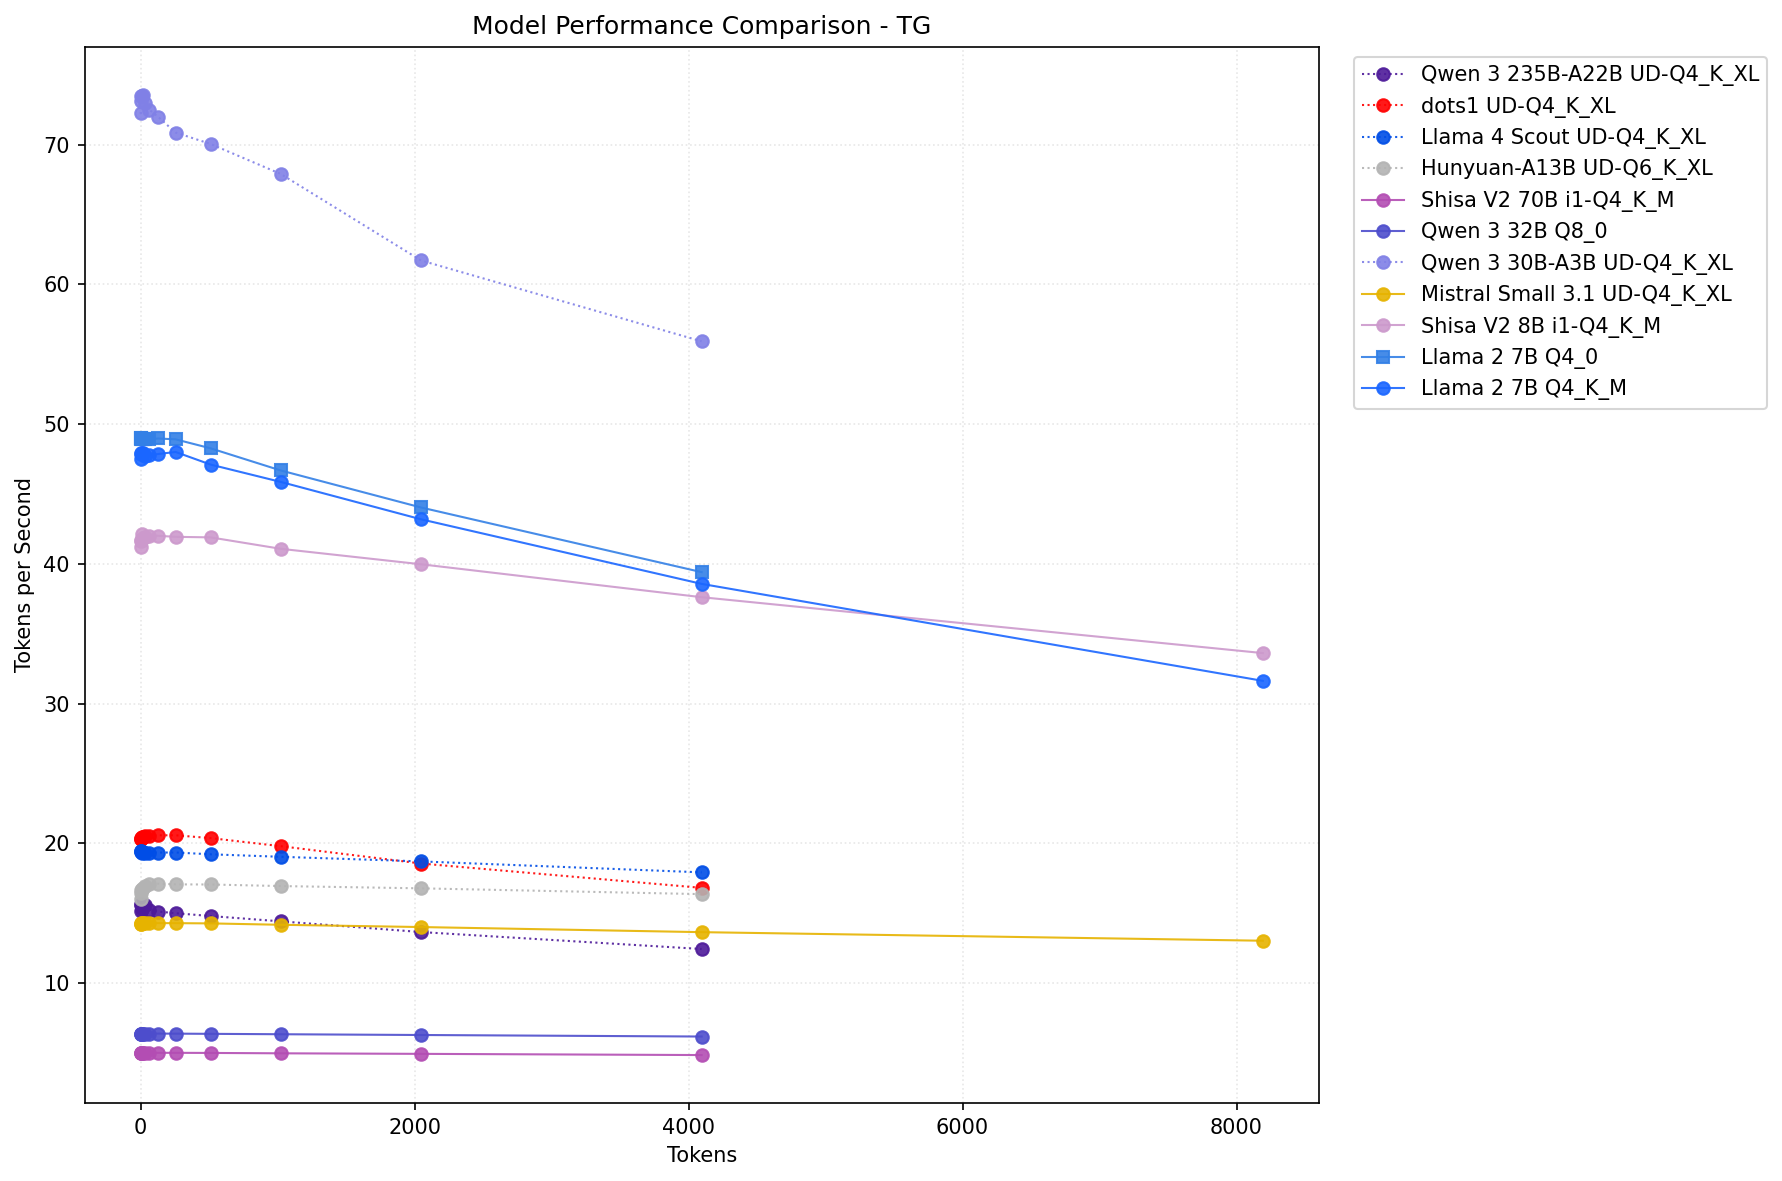
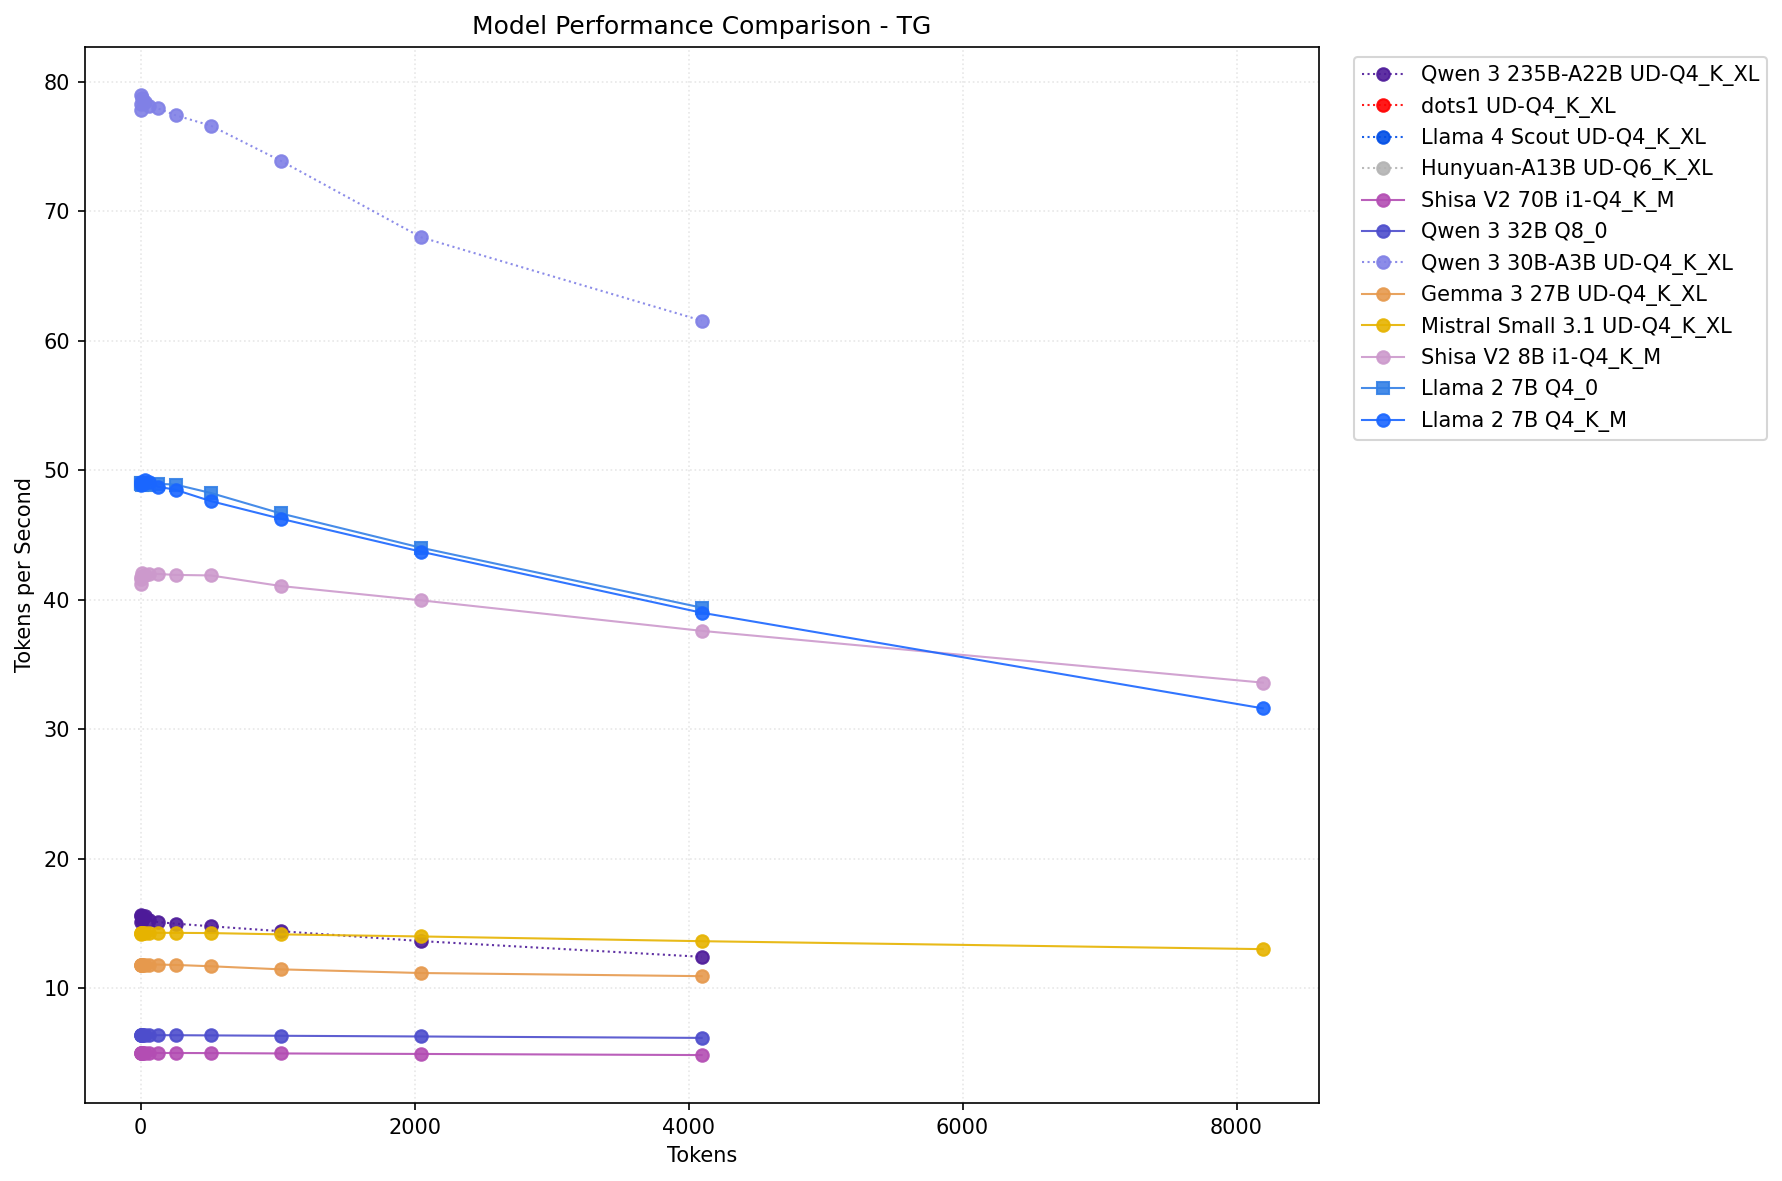
updated results

diff --git a/llm-bench/create-summary-readme.py b/llm-bench/create-summary-readme.py
@@ -67,7 +67,7 @@ MODELS = {
         "arch": "Qwen 3 MoE",
         "weights": 30,
         "active": 3,
-        "pp": "vulkan_fa",
+        "pp": "rocmwmma_hipblaslt_fa",
         "tg": "vulkan_b=256",
         "line": {
             "color": (0.5, 0.5, 0.9, 0.9),
@@ -119,7 +119,7 @@ MODELS = {
         "arch": "Llama 2",
         "weights": 7,
         "active": 7,
-        "pp": "hip_hipblaslt",
+        "pp": "rocwmma_hipblaslt_fa",
         "tg": "vulkan_fa",
         "line": {
             "color": (0.1, 0.4, 1.0, 0.9),
@@ -145,10 +145,23 @@ MODELS = {
         "arch": "Llama 3",
         "weights": 70,
         "active": 70,
-        "pp": "rocwmma",
+        "pp": "rocwmma_hipblaslt",
         "tg": "vulkan_fa",
         "line": {
             "color": (0.7, 0.3, 0.7, 0.9),
+            "lw": 1,
+            "ls": "-",
+        },
+    },
+    "gemma-3-27b-it-UD-Q4_K_XL": {
+        "name": "Gemma 3 27B UD-Q4_K_XL",
+        "arch": "Gemma 3",
+        "weights": 27,
+        "active": 27,
+        "pp": "hip_hipblaslt",
+        "tg": "vulkan_fa",
+        "line": {
+            "color": (0.9, 0.6, 0.3, 0.9),
             "lw": 1,
             "ls": "-",
         },
@@ -202,6 +215,13 @@ def get_best_performance_for_backend(df, backend_config, mode):
                (df['fa'] == '')
     elif backend_config == "rocwmma":
         mask = (df['build'].str.contains('rocwmma', na=False))
+    elif backend_config == "rocwmma_hipblaslt":
+        mask = (df['build'].str.contains('rocwmma', na=False)) & \
+               (df['hipblaslt'] == '1')
+    elif backend_config == "rocwmma_hipblaslt_fa":
+        mask = (df['build'].str.contains('rocwmma', na=False)) & \
+               (df['hipblaslt'] == '1') & \
+               (df['fa'] == '-fa 1')
     else:
         mask = df['build'].str.contains(backend_config, na=False)
     
@@ -254,6 +274,13 @@ def get_best_performance(df, model_info, mode):
                (df['fa'] == '-fa 1')
     elif best_backend == "rocwmma":
         mask = (df['build'].str.contains('rocwmma', na=False))
+    elif best_backend == "rocwmma_hipblaslt":
+        mask = (df['build'].str.contains('rocwmma', na=False)) & \
+               (df['hipblaslt'] == '1')
+    elif best_backend == "rocwmma_hipblaslt_fa":
+        mask = (df['build'].str.contains('rocwmma', na=False)) & \
+               (df['hipblaslt'] == '1') & \
+               (df['fa'] == '-fa 1')
     else:
         mask = df['build'].str.contains(best_backend, na=False)
     

diff --git a/llm-bench/README.md b/llm-bench/README.md
@@ -68,34 +68,35 @@ You can reference the `[llama-cpp-bencher.py](llama-cpp-bencher.py)` directly fo
 ### Prompt Processing (pp) Performance
 ![PP Performance](summary-results-pp.png)
 
-| Model Name                   | Architecture   |   Weights (B) |   Active (B) | Backend     | Flags      |   pp512 |   tg128 |   Memory (Max MiB) |
-|------------------------------|----------------|---------------|--------------|-------------|------------|---------|---------|--------------------|
-| Llama 2 7B Q4_0              | Llama 2        |             7 |            7 | Vulkan      |            |  1230.0 |    48.3 |               4323 |
-| Llama 2 7B Q4_K_M            | Llama 2        |             7 |            7 | HIP         | hipBLASLt  |   906.1 |    40.8 |               4720 |
-| Shisa V2 8B i1-Q4_K_M        | Llama 3        |             8 |            8 | HIP         | hipBLASLt  |   878.2 |    37.2 |               5308 |
-| Qwen 3 30B-A3B UD-Q4_K_XL    | Qwen 3 MoE     |            30 |            3 | Vulkan      | fa=1       |   604.8 |    66.3 |              17527 |
-| Mistral Small 3.1 UD-Q4_K_XL | Mistral 3      |            24 |           24 | HIP         | hipBLASLt  |   316.9 |    13.6 |              14638 |
-| Hunyuan-A13B UD-Q6_K_XL      | Hunyuan MoE    |            80 |           13 | Vulkan      | fa=1       |   270.5 |    17.1 |              68785 |
-| Llama 4 Scout UD-Q4_K_XL     | Llama 4 MoE    |           109 |           17 | HIP         | hipBLASLt  |   264.1 |    17.2 |              59720 |
-| Qwen 3 32B Q8_0              | Qwen 3         |            32 |           32 | HIP         | hipBLASLt  |   226.1 |     6.4 |              33683 |
-| Qwen 3 235B-A22B UD-Q4_K_XL  | Qwen 3 MoE     |           235 |           22 | HIP         | hipBLASLt  |   117.1 |    12.9 |              99950 |
-| Shisa V2 70B i1-Q4_K_M       | Llama 3        |            70 |           70 | HIP rocWMMA |            |    94.7 |     4.5 |              41522 |
-| dots1 UD-Q4_K_XL             | dots1 MoE      |           142 |           14 | Vulkan      | fa=1 b=256 |    63.1 |    20.6 |              84077 |
+| Model Name                   | Architecture   |   Weights (B) |   Active (B) | Backend     | Flags          |   pp512 |   tg128 |   Memory (Max MiB) |
+|------------------------------|----------------|---------------|--------------|-------------|----------------|---------|---------|--------------------|
+| dots1 UD-Q4_K_XL             | dots1 MoE      |           142 |           14 | Vulkan      | fa=1 b=256     |   nan   |   nan   |                161 |
+| Llama 4 Scout UD-Q4_K_XL     | Llama 4 MoE    |           109 |           17 | HIP         | hipBLASLt      |   nan   |   nan   |                161 |
+| Hunyuan-A13B UD-Q6_K_XL      | Hunyuan MoE    |            80 |           13 | Vulkan      | fa=1           |   nan   |   nan   |                161 |
+| Llama 2 7B Q4_0              | Llama 2        |             7 |            7 | Vulkan      |                |  1230.0 |    48.3 |               4323 |
+| Llama 2 7B Q4_K_M            | Llama 2        |             7 |            7 | HIP rocWMMA | fa=1 hipBLASLt |  1083.0 |    41.3 |               4720 |
+| Shisa V2 8B i1-Q4_K_M        | Llama 3        |             8 |            8 | HIP         | hipBLASLt      |   878.2 |    37.2 |               5308 |
+| Mistral Small 3.1 UD-Q4_K_XL | Mistral 3      |            24 |           24 | HIP         | hipBLASLt      |   316.9 |    13.6 |              14638 |
+| Gemma 3 27B UD-Q4_K_XL       | Gemma 3        |            27 |           27 | HIP         | hipBLASLt      |   302.2 |    10.7 |              17542 |
+| Qwen 3 32B Q8_0              | Qwen 3         |            32 |           32 | HIP         | hipBLASLt      |   226.1 |     6.4 |              33683 |
+| Qwen 3 235B-A22B UD-Q4_K_XL  | Qwen 3 MoE     |           235 |           22 | HIP         | hipBLASLt      |   117.1 |    12.9 |              99950 |
+| Shisa V2 70B i1-Q4_K_M       | Llama 3        |            70 |           70 | HIP rocWMMA | hipBLASLt      |    94.7 |     4.5 |              41522 |
 
 ### Text Generation (tg) Performance
 ![TG Performance](summary-results-tg.png)
 
 | Model Name                   | Architecture   |   Weights (B) |   Active (B) | Backend   | Flags          |   pp512 |   tg128 |   Memory (Max MiB) |
 |------------------------------|----------------|---------------|--------------|-----------|----------------|---------|---------|--------------------|
-| Qwen 3 30B-A3B UD-Q4_K_XL    | Qwen 3 MoE     |            30 |            3 | Vulkan    | b=256          |   591.1 |    72.0 |              17377 |
+| dots1 UD-Q4_K_XL             | dots1 MoE      |           142 |           14 | Vulkan    | fa=1 b=256     |   nan   |   nan   |                161 |
+| Llama 4 Scout UD-Q4_K_XL     | Llama 4 MoE    |           109 |           17 | Vulkan    | fa=1 b=256     |   nan   |   nan   |                161 |
+| Hunyuan-A13B UD-Q6_K_XL      | Hunyuan MoE    |            80 |           13 | Vulkan    | fa=1 b=256     |   nan   |   nan   |                161 |
+| Qwen 3 30B-A3B UD-Q4_K_XL    | Qwen 3 MoE     |            30 |            3 | Vulkan    | b=256          |   645.5 |    78.0 |              17377 |
 | Llama 2 7B Q4_0              | Llama 2        |             7 |            7 | HIP       | fa=1 hipBLASLt |   975.3 |    49.4 |               4429 |
-| Llama 2 7B Q4_K_M            | Llama 2        |             7 |            7 | Vulkan    | fa=1           |   620.9 |    47.9 |               4463 |
+| Llama 2 7B Q4_K_M            | Llama 2        |             7 |            7 | Vulkan    | fa=1           |   787.6 |    48.7 |               4463 |
 | Shisa V2 8B i1-Q4_K_M        | Llama 3        |             8 |            8 | Vulkan    | fa=1           |   614.2 |    42.0 |               5333 |
-| dots1 UD-Q4_K_XL             | dots1 MoE      |           142 |           14 | Vulkan    | fa=1 b=256     |    63.1 |    20.6 |              84077 |
-| Llama 4 Scout UD-Q4_K_XL     | Llama 4 MoE    |           109 |           17 | Vulkan    | fa=1 b=256     |   146.1 |    19.3 |              59917 |
-| Hunyuan-A13B UD-Q6_K_XL      | Hunyuan MoE    |            80 |           13 | Vulkan    | fa=1 b=256     |   223.9 |    17.1 |              68608 |
 | Qwen 3 235B-A22B UD-Q4_K_XL  | Qwen 3 MoE     |           235 |           22 | Vulkan    | fa=1           |   109.5 |    15.1 |             100446 |
 | Mistral Small 3.1 UD-Q4_K_XL | Mistral 3      |            24 |           24 | Vulkan    | fa=1           |   119.6 |    14.3 |              14540 |
+| Gemma 3 27B UD-Q4_K_XL       | Gemma 3        |            27 |           27 | Vulkan    | fa=1           |   114.7 |    11.8 |              18123 |
 | Qwen 3 32B Q8_0              | Qwen 3         |            32 |           32 | Vulkan    | fa=1           |   101.8 |     6.4 |              33886 |
 | Shisa V2 70B i1-Q4_K_M       | Llama 3        |            70 |           70 | Vulkan    | fa=1           |    26.4 |     5.0 |              41456 |
 
